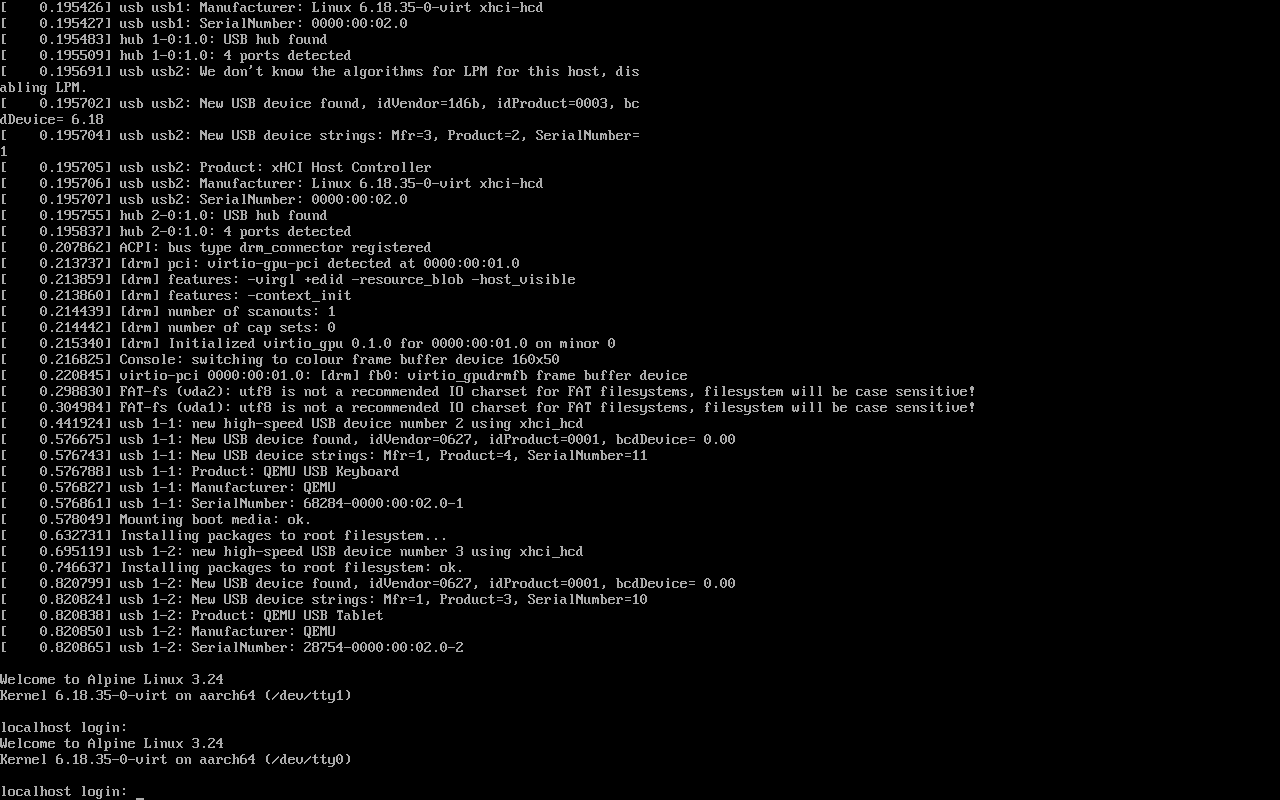
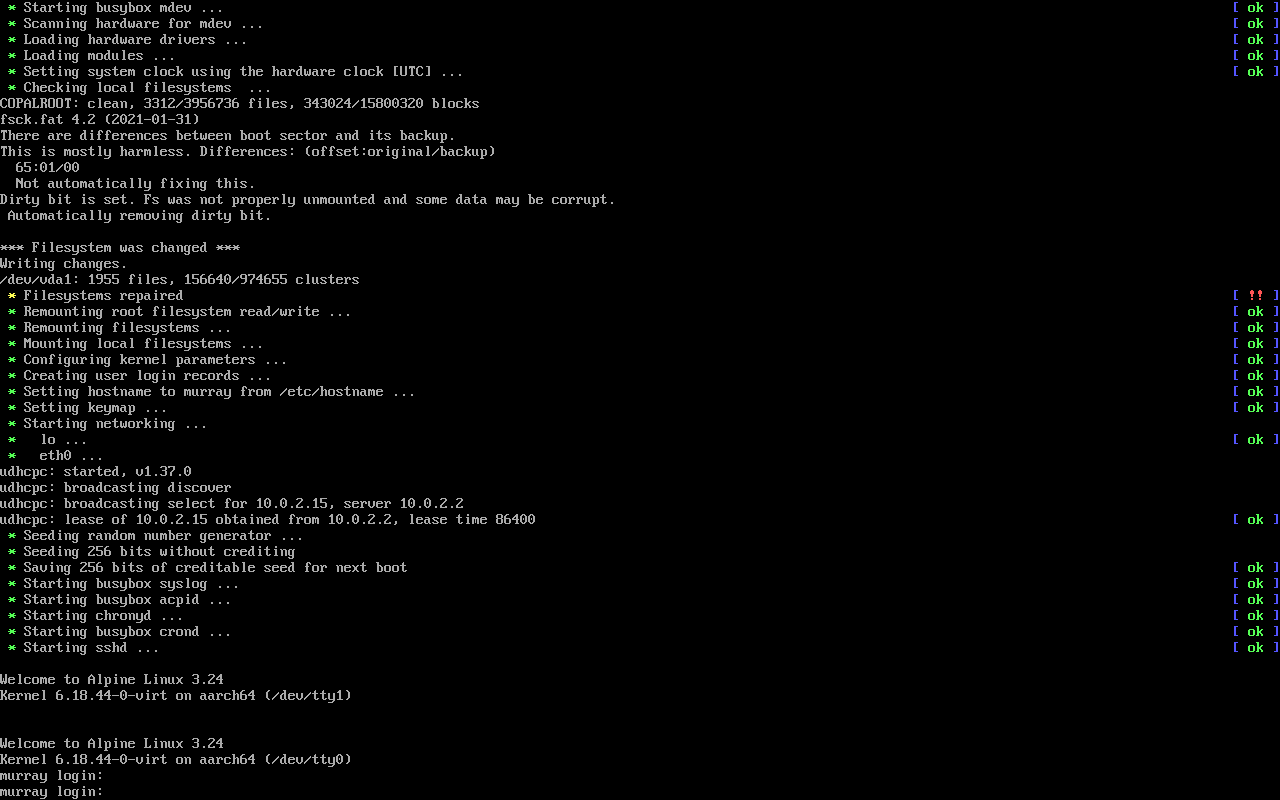
make install and make utm-export: close the loop between the two disks
"After make vm I don't see anything in UTM." Correct, and the reason is worth
fixing rather than explaining: make vm is plain QEMU, a separate hypervisor
that has never heard of UTM. But underneath that question is a worse trap.

UTM'S DISK IS NOT THE IMAGE. utm-vm.sh create runs qemu-img convert to make
UTM its own qcow2 inside the bundle, so from that moment the machine in UTM
and the file in build/ are two different disks. Install into UTM and $(IMG)
still holds the pristine, uninstalled system -- and nothing warns you,
because nothing is wrong: both exist, both boot.

It bites at the end, silently. make screens, make verify and make logs all
read the IMAGE. After a UTM install they report on a system that was never
installed -- so you get photographs of a login prompt while a finished
desktop is on screen in UTM, with no indication why.

  make utm-export    stops the machine and converts its qcow2 back into
                     $(IMG), after which every image-based tool sees what
                     you actually built. Refuses while it is running:
                     converting a disk out from under a live guest copies a
                     half-written filesystem, which is not a backup but a
                     corrupted copy that boots once and then does not.

  make install       the other half. Boots the image in QEMU with the console
                     on this terminal and prints the three lines to type,
[…]

diff --git a/docs/AUTOMATION.md b/docs/AUTOMATION.md
@@ -114,6 +114,63 @@ two builds cannot be mounted at once. This is the long one.
 
 ---
 
+## Installing: the loop that actually produces a desktop
+
+Two different things are called "the install", and blurring them is the single
+most confusing thing about this repository:
+
+| | What it is | How long |
+|---|---|---|
+| **The build** | `copal-prep.sh` on the Mac writes `$(IMG)` | ~90 seconds |
+| **The install** | `copal-init.sh` inside the guest runs the sixteen stages | hours |
+
+`make release` and `make walkthrough` do the first and *record* a bounded
+slice of the second. Only a complete second one produces a desktop to
+photograph.
+
+### The whole loop
+
+```sh
+make install          # boots the image in QEMU and prints what to type:
+                      #   login: root      (no password yet)
+                      #   run:   sh /media/vda1/copal-init.sh
+                      #   pick:  f
+                      # ...hours. Stage 3 reboots the guest by itself.
+                      # when finished: Ctrl-A then X to quit QEMU
+
+make screens          # photograph the installed desktop
+make gallery          # put the frames on the page
+make logs             # collect the transcripts
+```
+
+### The UTM trap, and the one command that avoids it
+
+`utm-vm.sh create` runs `qemu-img convert` to make UTM **its own qcow2**
+inside the bundle. From that moment the machine you use in UTM and the file in
+`build/` are **two different disks**. Install into UTM and `$(IMG)` still
+holds the pristine, uninstalled system.
+
+Nothing warns you, because nothing is wrong: both disks exist and both boot.
+But `make screens`, `make verify` and `make logs` all read the **image** — so
+after a UTM install they report on a system that was never installed, and you
+get photographs of a login prompt while a finished desktop sits on screen in
+UTM.
+
+```sh
+make utm-export       # stop the machine, convert its qcow2 back into $(IMG)
+```
+
+Run that after installing in UTM and every image-based tool sees what you
+actually built. The machine must be stopped — converting a disk out from
+under a running guest copies a half-written filesystem, which is not a backup
+but a corrupted copy that looks fine until it is booted.
+
+**And `make vm` does not appear in UTM.** It is plain QEMU, a separate
+hypervisor with no knowledge of UTM at all. If you want the machine in UTM's
+window list, that is `make utm`.
+
+---
+
 ## Which runner: QEMU or UTM?
 
 This is the decision that matters most, and it has a clean answer.
